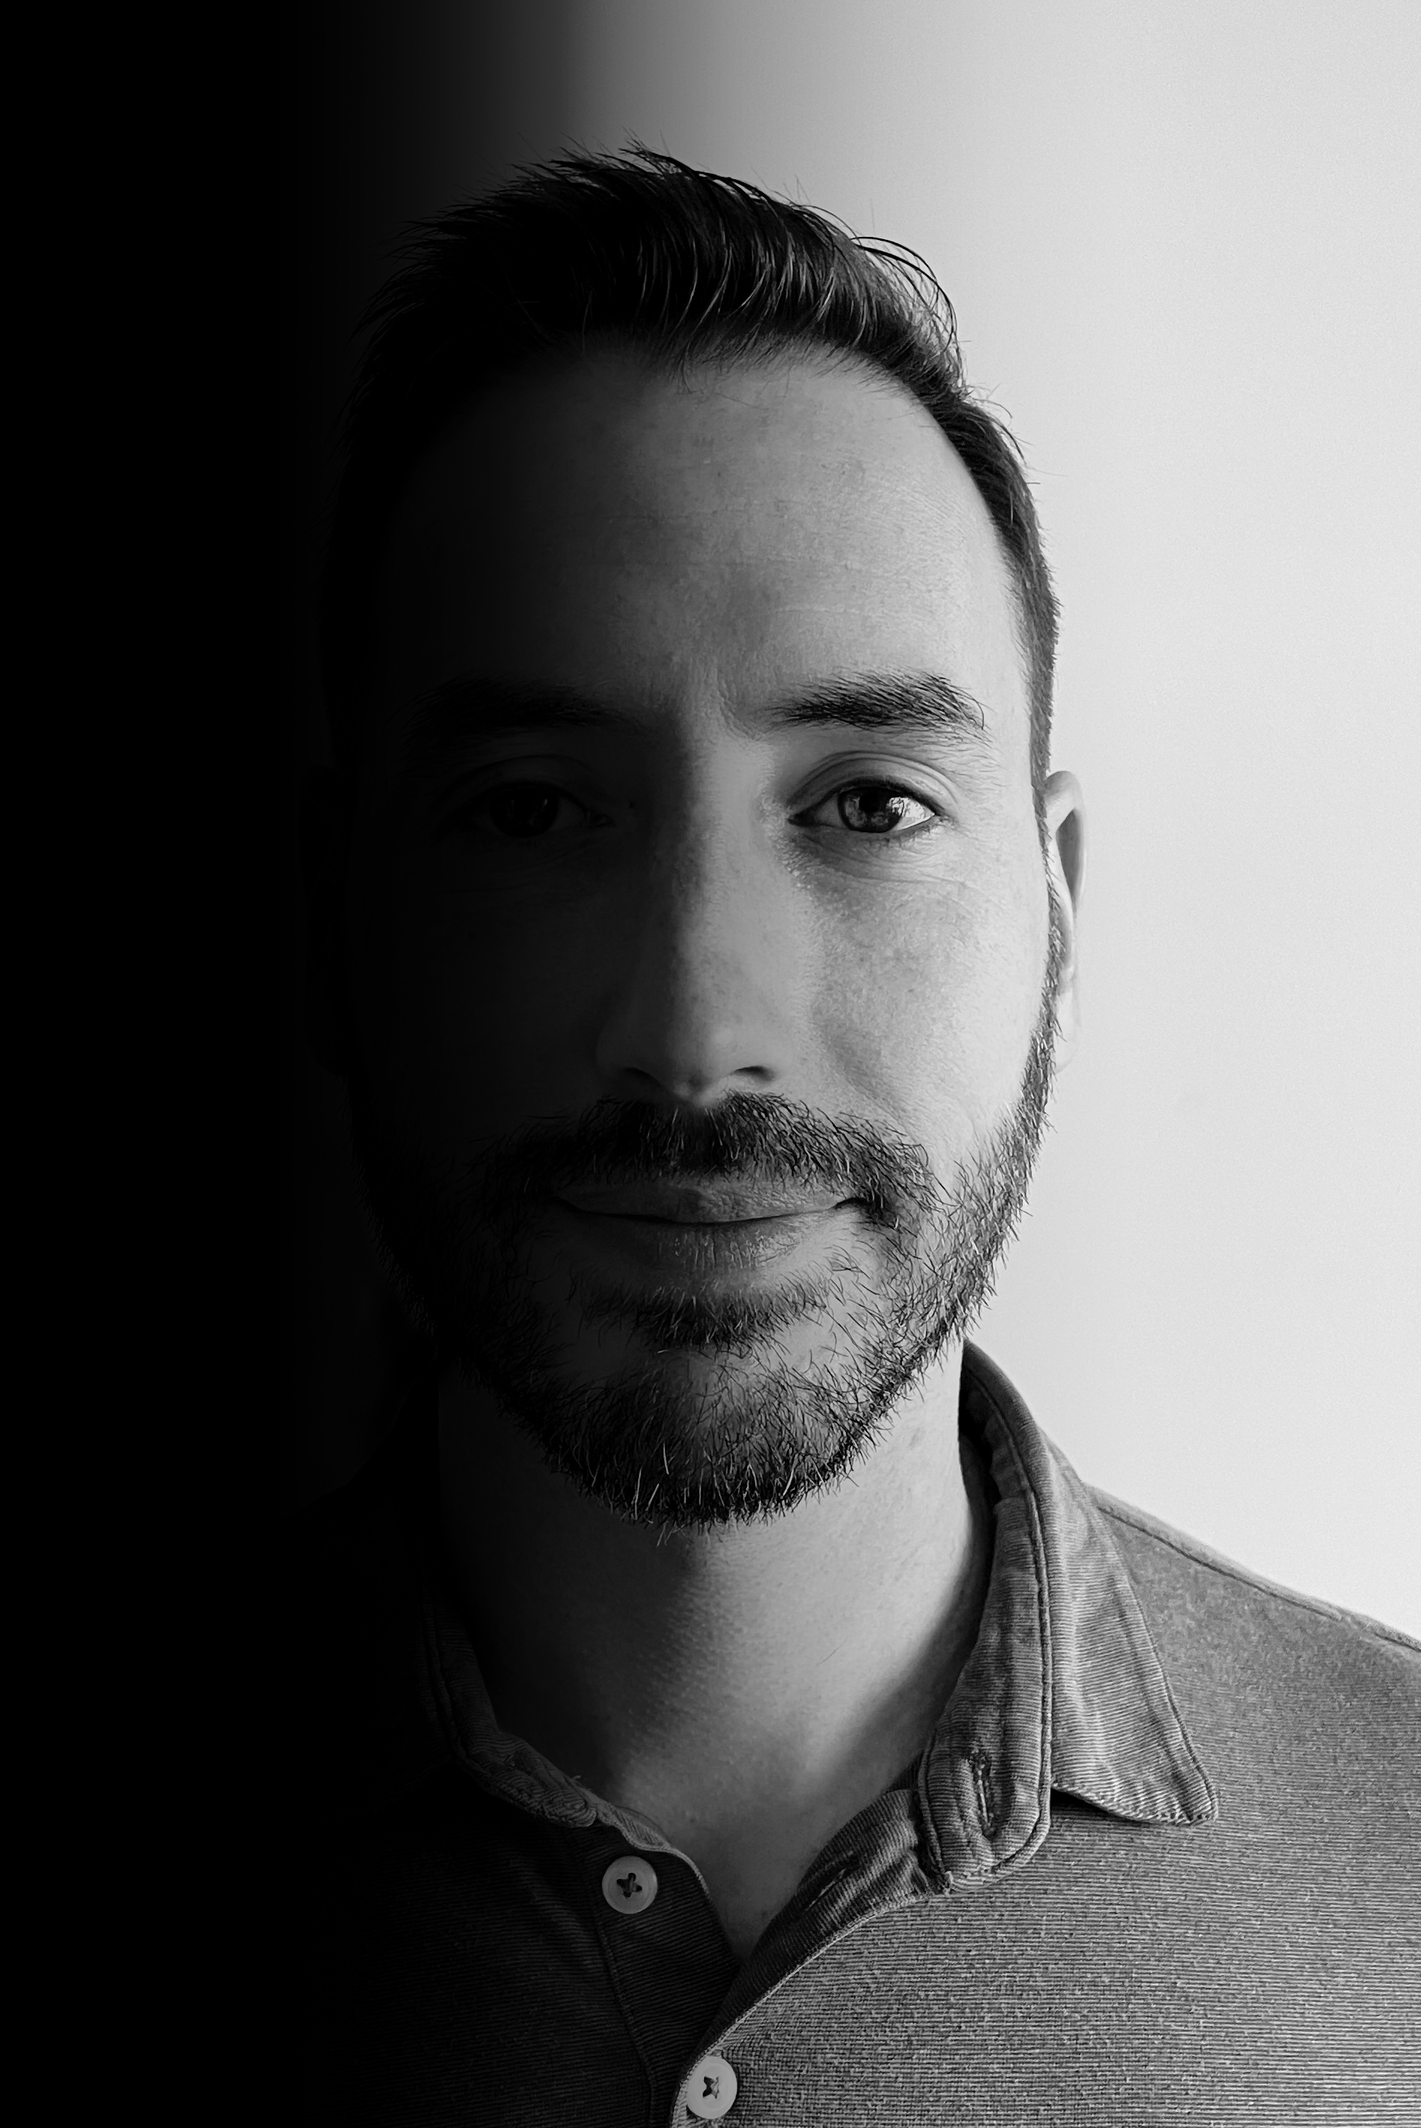
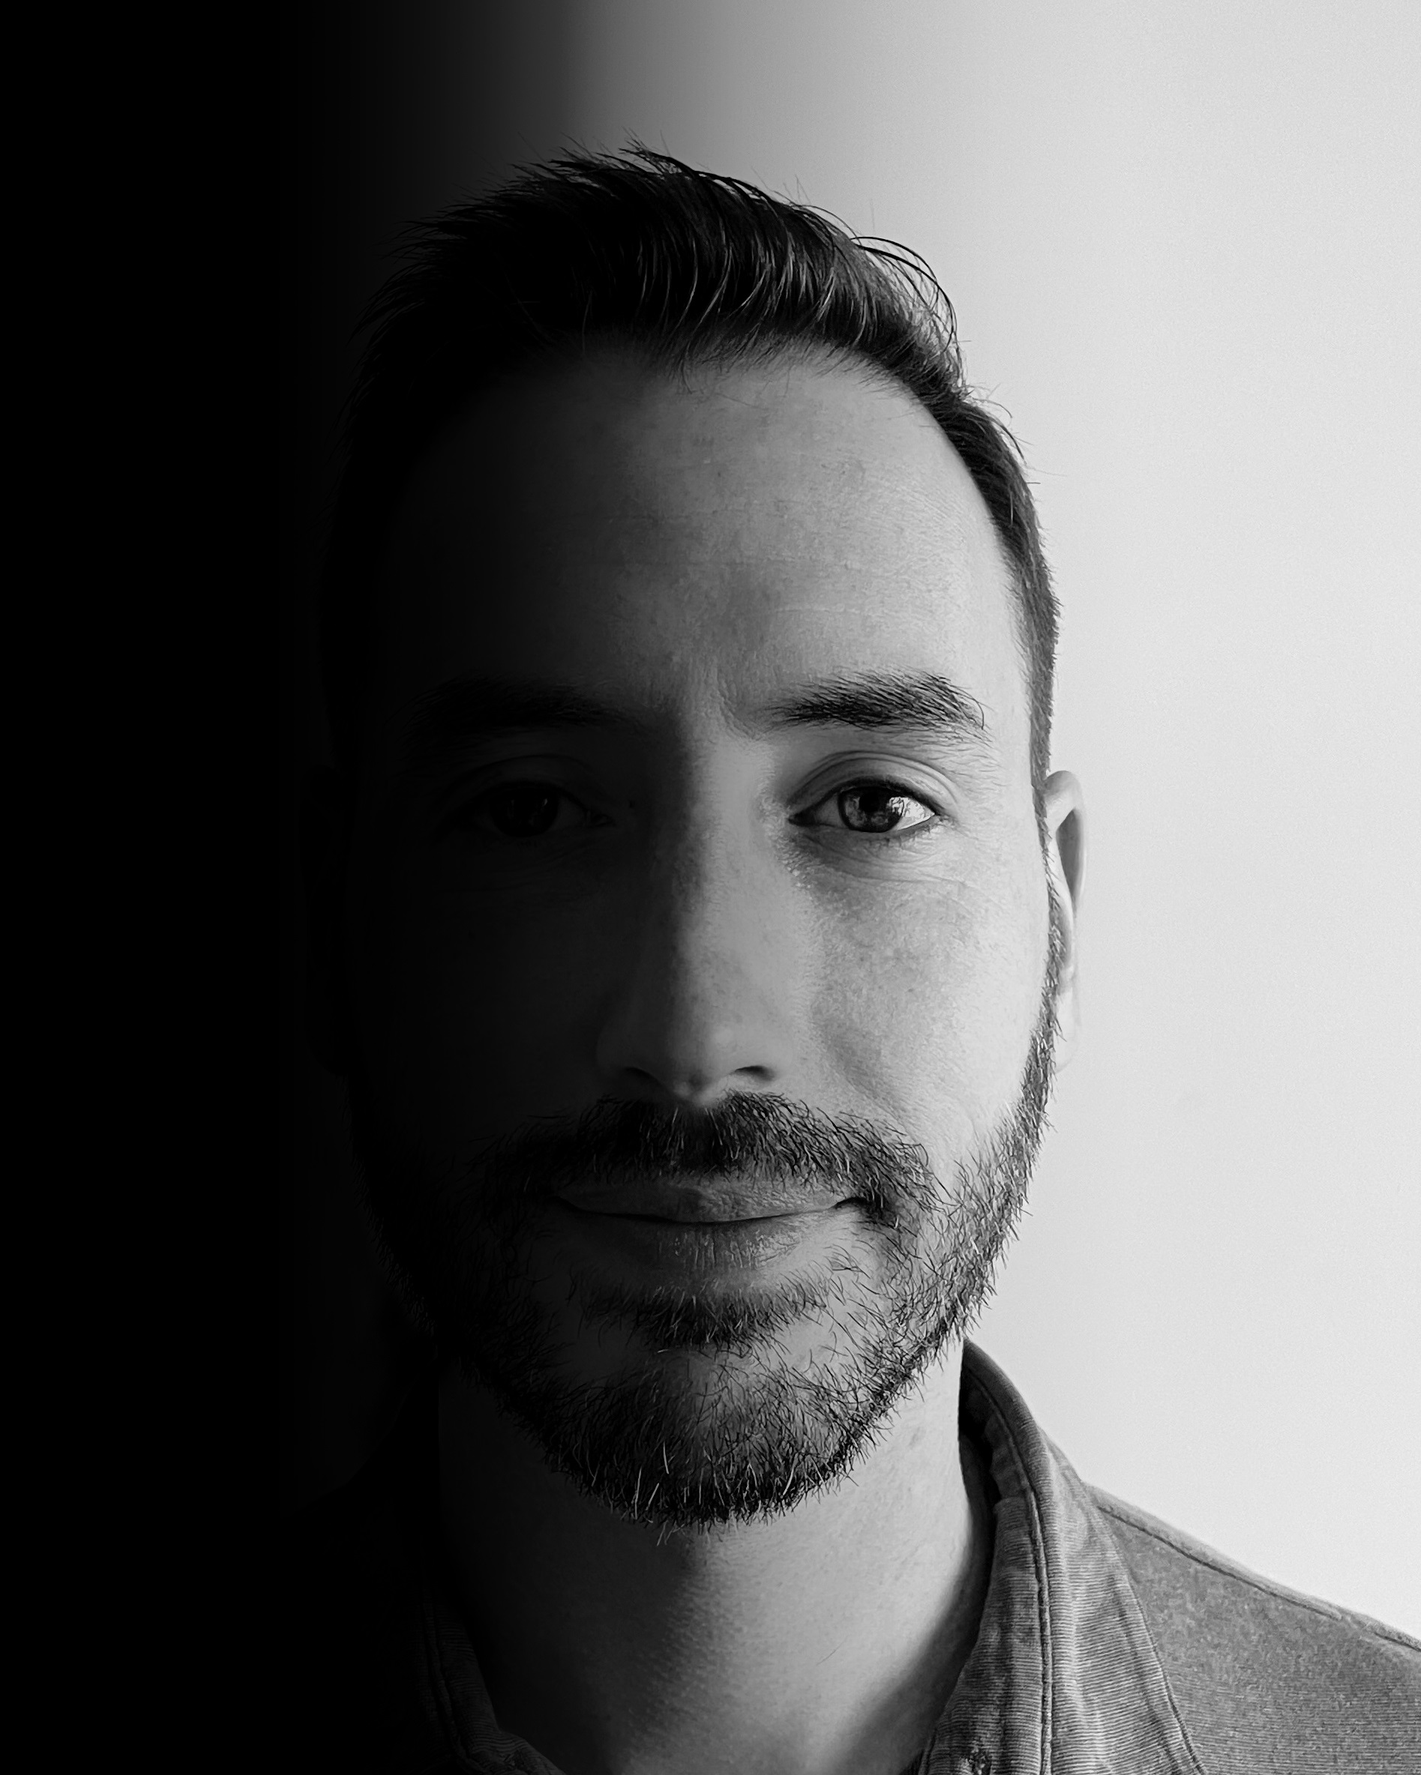
Update Konecta Languages

Changed region(s): [[0.3113, 0.0625, 1.0, 1.0], [0.467, 0.4375, 0.4982, 0.4688]]

diff --git a/src/components/KonectaBody.js b/src/components/KonectaBody.js
@@ -1,15 +1,17 @@
 import { useTranslation } from 'react-i18next';
+import { Link } from "react-router-dom";
 
 function KonectaBody() {
     const { t } = useTranslation();
 
     return (
         <header className="container" id="projects">
-            <h2><b>K0N3CT4</b></h2>
+            <h2 className="project-title">K0N3CT4</h2>
             <hr className="w3-opacity" />
+            <h3 className="project-subtitle">{t("idea-title")}</h3>
+
             <div className="row">
-                <div className="col-xl-7 col-md-6 col-sm-12">
-                    <h3 className="project-subtitle">{t("idea-title")}</h3>
+                <div className="col-xl-7 col-md-12 col-sm-12">
                     <p className="project-text">
                         {t("idea-konecta-1")}<br></br>
                         {t("idea-konecta-2")}<br></br>
@@ -20,40 +22,152 @@ function KonectaBody() {
                         {t("idea-konecta-5")}
                     </p>
                 </div>
-                <div className="col-xl-5 col-md-6 col-sm-12">
-                    <img src="img/konecta.jpg" className="w3-image w3-round" id="project-img" alt="Portfolio" />
+                <div className="col-xl-5 col-md-12 col-sm-12">
+                    <img src="img/konecta1.jpg" className="project-img" alt="Konecta 1 of 3" />
                 </div>
-                <div className="col-xl-5 col-md-6 col-sm-12">
-                    <img src="img/konecta.jpg" className="w3-image w3-round" id="project-img" alt="Portfolio" />
-                </div>
-                <div className="col-xl-7 col-md-6 col-sm-12">
-                    <h3 className="project-subtitle">{t("how-title")}</h3>
+            </div>
+            <hr className="w3-opacity" />
+            <h3 className="project-subtitle">{t("how-title")}</h3>
+
+            <div className="row">
+                <div className="col-12">
                     <p className="project-text">
                         {t("how-konecta-1")}<br></br>
                         {t("how-konecta-2")}<br></br>
                     </p>
-                    <h4 className="bold-text">{t("front-end")}</h4>
+                </div>
+            </div>
+
+            <div className="row">
+                <div className="col-xl-5 col-md-12 col-sm-12">
+                    <img src="img/konecta2.jpg" className="project-img" alt="Konecta 2 of 3" />
+                </div>
+                <div className="col-xl-7 col-md-12 col-sm-12">
+                    <h4 className="bold-text">Front-End</h4>
                     <p className="project-text">{t("front-konecta-text")}</p>
-                    <h4 className="bold-text">{t("back-end")}</h4>
+                    <h4 className="bold-text">Back-End</h4>
                     <p className="project-text">{t("back-konecta-text")}</p>
                     <h4 className="bold-text">{t("data-base")}</h4>
                     <p className="project-text">{t("db-konecta-text")}</p>
-
                 </div>
-                
-                <h3 className="project-subtitle">{t("in-dev-konecta")}</h3>
-                <p className="project-text">{t("dev-konecta-text")}</p>
-                
-                <h3 className="project-subtitle">{t("colaborators-konecta")}</h3>
-                <p className="project-text">{t("colaborators-text")}</p>
+            </div>
+            <hr className="w3-opacity" />
+            <h3 className="project-subtitle">{t("in-dev-konecta")}</h3>
 
-               
-
+            <div className="row">
+                <div className="col-xl-7 col-md-12 col-sm-12">
+                    <p className="project-text">{t("dev-konecta-text")}</p>
+                    <ul className="project-text">
+                        <li className="project-list">{t("dev-konecta-item1")}</li>
+                        <li className="project-list">{t("dev-konecta-item2")}</li>
+                        <li className="project-list">{t("dev-konecta-item3")}</li>
+                        <li className="project-list">{t("dev-konecta-item4")}</li>
+                        <li className="project-list">{t("dev-konecta-item5")}</li>
+                        <li className="project-list">{t("dev-konecta-item6")}</li>
+                        <li className="project-list">{t("dev-konecta-item7")}</li>
+                    </ul>
+                </div>
+                <div className="col-xl-5 col-md-12 col-sm-12">
+                    <img src="img/konecta3.jpg" className="project-img" alt="Konecta 3 of 3" />
+                </div>
+            </div>
+            <hr className="w3-opacity" />
+            <h3 className="project-subtitle">{t("colaborators-konecta")}</h3>
+            <div className="row">
+                <div className="col-12">
+                    <ul className="project-text">
+                        <li className="project-list">Ignacio Albiol<i className="bi bi-arrow-right"></i>
+                            <Link className="bi bi-github" to="https://github.com/nachoa88" target="_blank"
+                                rel="noopener noreferrer" aria-label="Go to Ignacio's Github Profile">Github</Link></li>
+                        <li className="project-list">Eugenia Cames<i className="bi bi-arrow-right"></i>
+                            <Link className="bi bi-github" to="https://github.com/Eucaba" target="_blank"
+                                rel="noopener noreferrer" aria-label="Go to Eugenia's Github Profile">Github</Link></li>
+                        <li className="project-list">Ingrid Barrachina<i className="bi bi-arrow-right"></i>
+                            <Link className="bi bi-github" to="https://github.com/IngridBafk" target="_blank"
+                                rel="noopener noreferrer" aria-label="Go to Ingrid's Github Profile">Github</Link></li>
+                        <li className="project-list">Anthony Torres<i className="bi bi-arrow-right"></i>
+                            <Link className="bi bi-github" to="https://github.com/AnthonyUPF" target="_blank"
+                                rel="noopener noreferrer" aria-label="Go to Anthony's Github Profile">Github</Link></li>
+                    </ul>
+                </div>
             </div>
 
             <hr className="w3-opacity" />
-                <h2>Work in progress, sorry...</h2>
-                <hr className="w3-opacity" />
+            <div className="row skills-used">
+                <p className="skill-title w3-wide">{t("skills-used")}</p>
+                <div className="col-xl-1 col-md-2 col-sm-3 col-3">
+                    <div className="icon-container">
+                        <img className="iconImg" src="img/icons/html5_icon.png" alt="HTML5 icon" />
+                        <p className="skill-text">HTML5</p>
+                    </div>
+                </div>
+                <div className="col-xl-1 col-md-2 col-sm-3 col-3">
+                    <div className="icon-container">
+                        <img className="iconImg" src="img/icons/css3_icon.png" alt="CSS icon" />
+                        <p className="skill-text">CSS</p>
+                    </div>
+                </div>
+                <div className="col-xl-1 col-md-2 col-sm-3 col-3">
+                    <div className="icon-container">
+                        <img className="iconImg" src="/img/icons/javascript_icon.png" alt="JavaScript icon" />
+                        <p className="skill-text">JavaScript</p>
+                    </div>
+                </div>
+                <div className="col-xl-1 col-md-2 col-sm-3 col-3">
+                    <div className="icon-container">
+                        <img className="iconImg" src="img/icons/react_icon.png" alt="React icon" />
+                        <p className="skill-text">React</p>
+                    </div>
+                </div>
+                <div className="col-xl-1 col-md-2 col-sm-3 col-3">
+                    <div className="icon-container">
+                        <img className="iconImg" src="img/icons/bootstrap_icon.png" alt="Bootstrap icon" />
+                        <p className="skill-text">Bootstrap</p>
+                    </div>
+                </div>
+                <div className="col-xl-1 col-md-2 col-sm-3 col-3">
+                    <div className="icon-container">
+                        <img className="iconImg" src="img/icons/mysql_icon.png" alt="MySQL icon" />
+                        <p className="skill-text">MySQL</p>
+                    </div>
+                </div>      
+                <div className="col-xl-1 col-md-2 col-sm-3 col-3">
+                    <div className="icon-container">
+                        <img className="iconImg" src="/img/icons/postman_icon.png" alt="Postman icon" />
+                        <p className="skill-text">Postman</p>
+                    </div>
+                </div>
+                <div className="col-xl-1 col-md-2 col-sm-3 col-3">
+                    <div className="icon-container">
+                        <img className="iconImg" src="img/icons/java_icon.png" alt="Java icon" />
+                        <p className="skill-text">Java</p>
+                    </div>
+                </div>
+                <div className="col-xl-1 col-md-2 col-sm-3 col-3">
+                    <div className="icon-container">
+                        <img className="iconImg" src="img/icons/spring_boot_icon.png" alt="Spring Boot icon" />
+                        <p className="skill-text">Spring Boot</p>
+                    </div>
+                </div>
+                <div className="col-xl-1 col-md-2 col-sm-3 col-3">
+                    <div className="icon-container">
+                        <img className="iconImg" src="img/icons/figma_icon.png" alt="Figma icon" />
+                        <p className="skill-text">Figma</p>
+                    </div>
+                </div>
+                <div className="col-xl-1 col-md-2 col-sm-3 col-3">
+                    <div className="icon-container">
+                        <img className="iconImg" src="img/icons/github_icon.png" alt="GitHub icon" />
+                        <p className="skill-text">GitHub</p>
+                    </div>
+                </div>
+                <div className="col-xl-1 col-md-2 col-sm-3 col-3">
+                    <div className="icon-container">
+                        <img className="iconImg" src="img/icons/aws_icon.png" alt="HTML5 icon" />
+                        <p className="skill-text">AWS</p>
+                    </div>
+                </div>
+            </div>
         </header>
     );
 }

diff --git a/src/components/Navbar.js b/src/components/Navbar.js
@@ -39,14 +39,17 @@ function Navbar() {
                             </Dropdown.Toggle>
                             <Dropdown.Menu>
                                 <li>
-                                    <Dropdown.Item><a className="dropdown-item" href="...">K0N3CT4</a></Dropdown.Item>
+                                    <Dropdown.Item><Link className="dropdown-item" to="/konecta" aria-label="Go to Konecta project">
+                                        K0N3CT4</Link></Dropdown.Item>
                                 </li>
                                 <li>
-                                    <Dropdown.Item><a className="dropdown-item" href="...">LA Photography</a></Dropdown.Item>
+                                    <Dropdown.Item><Link className="dropdown-item" to="/laphotography" aria-label="Go to LA Photography">
+                                        LA Photography</Link></Dropdown.Item>
                                 </li>
                                 <Dropdown.Divider />
                                 <li>
-                                    <Dropdown.Item><a className="dropdown-item" href="...">My Portfolio</a></Dropdown.Item>
+                                <Dropdown.Item><Link className="dropdown-item" to="/portfoliopage" aria-label="Go to My Portfolio">
+                                        My Portfolio</Link></Dropdown.Item>
                                 </li>
                             </Dropdown.Menu>
                         </Dropdown>

diff --git a/src/components/LaPhotographyBody.js b/src/components/LaPhotographyBody.js
@@ -5,21 +5,25 @@ function LaPhotographyBody() {
 
     return (
         <header className="container" id="projects">
-            <h2><b>LA Photography</b></h2>
+            <h2 className="project-title">LA Photography</h2>
+            <hr className="w3-opacity" />
+            <h3 className="project-subtitle">{t("idea-title")}</h3>
+            
             <hr className="w3-opacity" />
             <h2>Work in progress, sorry...</h2>
             <hr className="w3-opacity" />
 
-            <hr className="w3-opacity" />
+        
             <div className="row">
-                <div className="col-xl-7 col-md-6 col-sm-12">
+                <div className="col-xl-7 col-md-12 col-sm-12">
                 </div>
-                <div className="col-xl-5 col-md-6 col-sm-12">
+                <div className="col-xl-5 col-md-12 col-sm-12">
                 </div>
-                
-                <div className="col-xl-5 col-md-6 col-sm-12">
+            </div>
+            <div className="row">
+                <div className="col-xl-5 col-md-12 col-sm-12">
                 </div>
-                <div className="col-xl-7 col-md-6 col-sm-12">
+                <div className="col-xl-7 col-md-12 col-sm-12">
                 </div>
             </div>
         </header>

diff --git a/src/components/PortfolioBody.js b/src/components/PortfolioBody.js
@@ -5,21 +5,25 @@ function PortfolioBody() {
 
     return (
         <header className="container" id="projects">
-            <h2><b>My Portfolio</b></h2>
+            <h2 className="project-title">My Portfolio</h2>
+            <hr className="w3-opacity" />
+            <h3 className="project-subtitle">{t("idea-title")}</h3>
+            
             <hr className="w3-opacity" />
             <h2>Work in progress, sorry...</h2>
             <hr className="w3-opacity" />
 
-            <hr className="w3-opacity" />
+           
             <div className="row">
-                <div className="col-xl-7 col-md-6 col-sm-12">
+                <div className="col-xl-7 col-md-12 col-sm-12">
                 </div>
-                <div className="col-xl-5 col-md-6 col-sm-12">
+                <div className="col-xl-5 col-md-12 col-sm-12">
                 </div>
-                
-                <div className="col-xl-5 col-md-6 col-sm-12">
+            </div>
+            <div className="row">
+                <div className="col-xl-5 col-md-12 col-sm-12">
                 </div>
-                <div className="col-xl-7 col-md-6 col-sm-12">
+                <div className="col-xl-7 col-md-12 col-sm-12">
                 </div>
             </div>
         </header>

diff --git a/src/components/Header.js b/src/components/Header.js
@@ -8,8 +8,8 @@ function Header() {
         <header className="w3-container w3-center" id="header">
             <h1 className="w3-jumbo">Ignacio Albiol</h1>
             <p>{t('header-subtitle')}</p>
-            <img src="img/fotoCV2.jpg" className="w3-image w3-hide-large w3-hide-small w3-round" id="home-img-medium" alt="Portfolio"/>
-            <img src="img/fotoCV2.jpg" className="w3-image w3-hide-large w3-hide-medium w3-round" id="home-img-small" alt="Portfolio"/>
+            <img src="img/fotoCV.jpg" className="w3-image w3-hide-large w3-hide-small w3-round" id="home-img-medium" alt="Portfolio"/>
+            <img src="img/fotoCV.jpg" className="w3-image w3-hide-large w3-hide-medium w3-round" id="home-img-small" alt="Portfolio"/>
             <button className="resume-btn" onClick={() => window.open(Resume, '_blank')} download={Resume}>
                 <i className="bi bi-download"></i>
                 <span className="button-text">{t('download-cv')}</span>

diff --git a/src/components/css/ProjectBody.css b/src/components/css/ProjectBody.css
@@ -13,23 +13,40 @@ footer {
       }
 }
 
-.project-text{
-    padding: 0px 30px;
-    font-size: large;
+.project-title{
+    font-weight: bold;
+    margin-top: 30px;
+    text-align: center;
 }
 
 .project-subtitle{
     font-weight: bold;
-    margin-bottom: 30px;
-    padding: 0px 30px;
+    margin-top: 20px;
+}
+
+.project-text{
+    font-size: large;
+}
+
+.project-img {
+    border-radius: 5px;
+    width: 100%;
+    margin-bottom: 10px;
+}
+
+.skills-used{
+    margin-bottom: 40px;
 }
 
 .bold-text{
-    padding: 0px 30px;
     font-weight: bold;
 }
 
-#project-img{
-    margin: 50px 0px;
-    padding: 0px 30px;
+.project-list i {
+    margin-right: 5px;
+    margin-left: 5px;
+}
+
+.project-list a:hover {
+    opacity: 0.5;
 }

diff --git a/src/routing/Routing.js b/src/routing/Routing.js
@@ -18,7 +18,7 @@ function Routing() {
             <Routes>
                 <Route index element={<HomePage />} />
                 <Route path="konecta" element={<KonectaPage />} />
-                <Route path="portfolioPage" element={<PortfolioPage />} />
+                <Route path="portfoliopage" element={<PortfolioPage />} />
                 <Route path="laphotography" element={<LaPhotographyPage />} />
             </Routes>
             <Footer />

diff --git a/src/components/css/LeftSidebar.css b/src/components/css/LeftSidebar.css
@@ -6,6 +6,6 @@
     background-position: center;
     background-repeat: no-repeat;
     background-size: cover;
-    background-image: url('../../../public/img/portrait2.jpg');
+    background-image: url('../../../public/img/portrait.jpg');
     min-height: 100%;
   }
